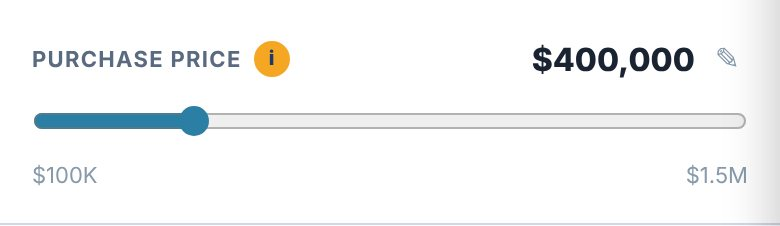
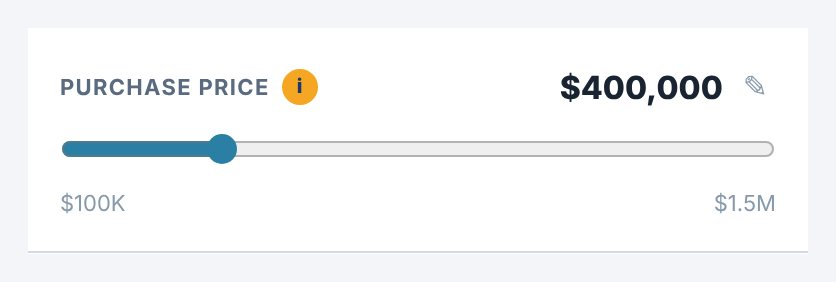
v8.36.0 (preview): tab renamed 'Back to My Quote'; guide page 9 rewritten with spotlight picture; even frame spacing; insurance note; fix closed help panel shading the right edge
Claude-Session: https://claude.ai/code/session_01UsUESyhBkBSSpKsiJJXEij

diff --git a/preview/index.html b/preview/index.html
@@ -1746,15 +1746,15 @@ body.dark-mode .breakdown-row.total .breakdown-val { color: var(--yellow); }
   </div>
 
   <!-- FLOATING RESET BUTTON — appears when price/down drifts from originally quoted values -->
-  <div id="client-reset-btn" title="Return to my quoted scenario" style="display:none;position:fixed;left:0;top:50%;transform:translateY(-50%);z-index:900;background:var(--navy);color:var(--yellow);border:none;border-radius:0 8px 8px 0;padding:10px 8px 10px 6px;cursor:pointer;box-shadow:3px 0 12px rgba(27,58,107,0.35);writing-mode:vertical-rl;text-orientation:mixed;font-size:11px;font-weight:700;letter-spacing:0.04em;text-transform:uppercase;align-items:center;gap:6px;flex-direction:column;font-family:inherit;">
+  <div id="client-reset-btn" title="Go back to the numbers Chris quoted you" style="display:none;position:fixed;left:0;top:50%;transform:translateY(-50%);z-index:900;background:var(--navy);color:var(--yellow);border:none;border-radius:0 8px 8px 0;padding:10px 8px 10px 6px;cursor:pointer;box-shadow:3px 0 12px rgba(27,58,107,0.35);writing-mode:vertical-rl;text-orientation:mixed;font-size:11px;font-weight:700;letter-spacing:0.04em;text-transform:uppercase;align-items:center;gap:6px;flex-direction:column;font-family:inherit;">
     <span style="font-size:16px;writing-mode:horizontal-tb;">🏠</span>
-    <span style="writing-mode:vertical-rl;text-orientation:mixed;">Reset to Quote</span>
+    <span style="writing-mode:vertical-rl;text-orientation:mixed;">Back to My Quote</span>
   </div>
 
 
   <!-- HELP DRAWER -->
   <div id="help-overlay" style="display:none;position:fixed;inset:0;background:rgba(0,0,0,0.4);z-index:850;"></div>
-  <div id="help-drawer" style="position:fixed;top:0;right:0;bottom:0;width:min(360px,100vw);background:var(--surface);z-index:900;transform:translateX(100%);transition:transform 0.35s cubic-bezier(.4,0,.2,1);display:flex;flex-direction:column;box-shadow:-4px 0 24px rgba(0,0,0,0.2);">
+  <div id="help-drawer" style="position:fixed;top:0;right:0;bottom:0;width:min(360px,100vw);background:var(--surface);z-index:900;transform:translateX(100%);transition:transform 0.35s cubic-bezier(.4,0,.2,1);display:flex;flex-direction:column;box-shadow:none;">
     <div style="background:var(--navy);padding:20px 20px 16px;display:flex;align-items:center;justify-content:space-between;">
       <div>
         <div style="font-size:13px;font-weight:800;color:var(--yellow);text-transform:uppercase;letter-spacing:0.07em;">Help Guide</div>
@@ -2261,7 +2261,7 @@ var CONFIG = {
   /* ── VERSION — the ONLY place the version number is set. Bump it for every
      change; the header and footer read it from here, and "Publish preview to
      live" refuses to publish a change that still has the live version number. */
-  version: '8.35.1',
+  version: '8.36.0',
   /* ── LENDER IDENTITY ─────────────────────────────────────── */
   lender: {
     name:'Chris Greenidge', title:'Senior Loan Officer',
@@ -5018,7 +5018,7 @@ function initClientView(p) {
     {
       title:'5. Homeowners insurance',
       img:'07-insurance.jpg',
-      body:'If Chris already got you an insurance quote, it’s already in here — you’ll see <strong>ACTUAL</strong> instead of <strong>EST</strong>, so you can leave it. Otherwise it’s an estimate. Shopping a different home or got your own quote? Tap the <strong>✎ pencil</strong> and type the monthly amount.',
+      body:'If Chris already got you an insurance quote, it’s already in here — you’ll see <strong>ACTUAL</strong> instead of <strong>EST</strong>, so you can leave it (if you change the price, it switches back to an estimate). Otherwise it’s an estimate. Shopping a different home or got your own quote? Tap the <strong>✎ pencil</strong> and type the monthly amount.',
     },
     {
       title:'6. Property tax',
@@ -5028,9 +5028,9 @@ function initClientView(p) {
       body2:'<strong>Have an address? Look up the real tax bill.</strong> Tap the button under Property Tax, start typing, and <strong>pick the address from the list</strong> — city and county fill in for you. Add the unit # for a condo, then tap <strong>Pull Tax Record</strong>.<br><br>If the record isn’t an exact match we’ll ask <strong>“Is this the right property?”</strong> first. In some counties you’ll see the <strong>current owner’s</strong> bill as a guide — yours will likely be higher after you buy.',
     },
     {
-      title:'Changed too much? Start over',
+      title:'Want to go back to Chris’s numbers?',
       img:'12-reset.jpg',
-      body:'Once you change the price or down payment, a <strong>Reset to Quote</strong> tab appears on the <strong>left edge</strong> of your screen. Tap it to snap back to the numbers Chris set up for you.',
+      body:'Playing with the price or down payment? Go for it — you can’t break anything. As soon as you move one, a small tab pops up on the <strong>left side of your screen</strong> that says <strong>Back to My Quote</strong>. Tap it and everything goes right back to the numbers Chris quoted you.',
     },
     {
       title:'Save your scenario',
@@ -5093,11 +5093,14 @@ function initClientView(p) {
 
   function openHelp(){
     helpCurrent=0; renderHelpStep();
+    helpDrawer.style.boxShadow='-4px 0 24px rgba(0,0,0,0.2)';
     helpDrawer.style.transform='translateX(0)';
     if(helpOverlay){helpOverlay.style.display='block';}
   }
   function closeHelp(){
     helpDrawer.style.transform='translateX(100%)';
+    /* drop the shadow once it has slid away — otherwise it shades the right edge of the page */
+    setTimeout(function(){ if (helpDrawer.style.transform==='translateX(100%)') helpDrawer.style.boxShadow='none'; }, 380);
     if(helpOverlay){helpOverlay.style.display='none';}
   }
   document.getElementById('help-close').addEventListener('click', closeHelp);

diff --git a/tests/run.js b/tests/run.js
@@ -447,9 +447,9 @@ async function readScreen(page, pattern) {
   if (!O.open || O.welcomeShown) failures.push(`Help: "?" must open the full help guide, not the welcome popup (${JSON.stringify({ open: O.open, welcome: O.welcomeShown })})`);
   if (O.total < 10) failures.push(`Help: the guide should have at least 10 pages, has ${O.total} ("${O.label}")`);
   if (/Homestead Exemption box|Download PDF/i.test(O.text)) failures.push('Help: guide still mentions things that no longer exist (Homestead box / Download PDF)');
-  if (!/Look up the real tax bill/.test(O.text) || !/Reset to Quote/.test(O.text)) failures.push('Help: guide should cover the tax lookup and the Reset to Quote tab');
+  if (!/Look up the real tax bill/.test(O.text) || !/Back to My Quote/.test(O.text)) failures.push('Help: guide should cover the tax lookup and the Back to My Quote tab');
   // Guide v2: pages follow the screen top to bottom (price before down payment before tax before save before share)
-  const order = ['Purchase price', 'Down payment', 'Loan term', 'HOA fee', 'Homeowners insurance', 'Property tax', 'Look up the real tax bill', 'Reset to Quote', 'Save your scenario', 'Share with someone'].map((w) => O.text.indexOf(w));
+  const order = ['Purchase price', 'Down payment', 'Loan term', 'HOA fee', 'Homeowners insurance', 'Property tax', 'Look up the real tax bill', 'Back to My Quote', 'Save your scenario', 'Share with someone'].map((w) => O.text.indexOf(w));
   if (order.some((x) => x < 0) || order.some((x, k) => k > 0 && x < order[k - 1])) failures.push(`Help: guide pages should follow the screen order (${order.join(',')})`);
 
   await browser.close();

diff --git a/tests/README.md b/tests/README.md
@@ -40,3 +40,4 @@ These tests make sure no change to `index.html` quietly changes a payment or DTI
 - v8.33.0 (ADDR1, Chris Nov 9): Google address autocomplete in the tax lookup. Page → Worker `/address-suggest` + `/address-details` → Google Places API (New). Key only as Worker secret GOOGLE_PLACES_KEY; 4,000 Google calls/month cap (free allowance 5,000), then plain typing; 4+ letters and a short pause before asking; US only, Florida favoured. Picking fills street, city, county, unit; the Q5 exact-match check still runs on the lookup. Tests: worker.test.mjs section 14, run.js check N.
 - v8.34.0 (Chris, Nov 9): the "?" button opens the full help guide again (an Oct 20 change had pointed it at the 3-page welcome). Guide now 12 pages: removed the non-existent Homestead box and "Download PDF", added the tax lookup + address suggestions and the Reset to Quote tab, honest wording on Share; readable in night mode. Test O.
 - v8.35.0–8.35.1 (Chris, Nov 9): help guide v2 — 12 pages (8.35.1: even gold frame drawn by the page, insurance "ACTUAL" note, tax + lookup on one page, Flood/CDD page removed, clearer Reset picture), was 14 pages in the order a client works down the screen (numbers loaded → payment bar → price → down → term → HOA → insurance → tax → tax lookup → flood/CDD → Reset to Quote → save → share → call Chris), each with a highlighted screenshot from /help-img/. Old text kept in docs/help-guide-v1-set-aside.md. Test O checks the page order.
+- v8.36.0 (Chris, Nov 9): the side tab is renamed "Back to My Quote" (was "Reset to Quote"); guide page 9 rewritten in plain words with a zoomed-out, dimmed screenshot + arrow; even spacing inside every gold frame; insurance page notes a quote switches back to an estimate if the price changes. Also fixed: the closed help panel's shadow was shading the right edge of the client screen all the time.
